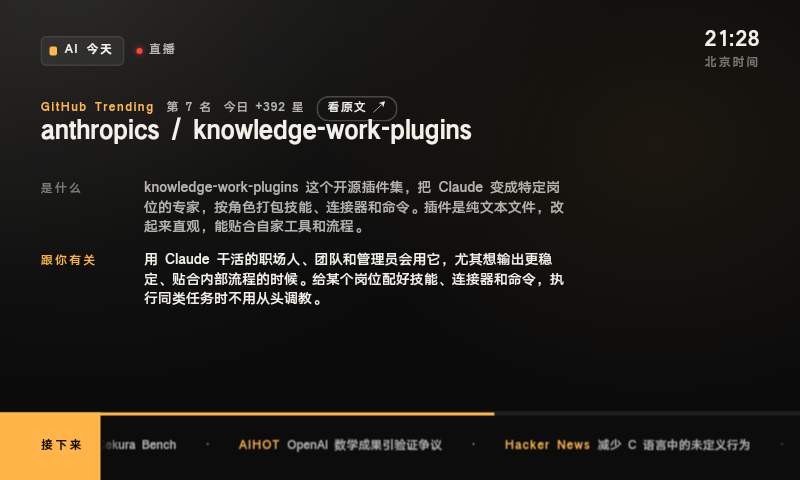
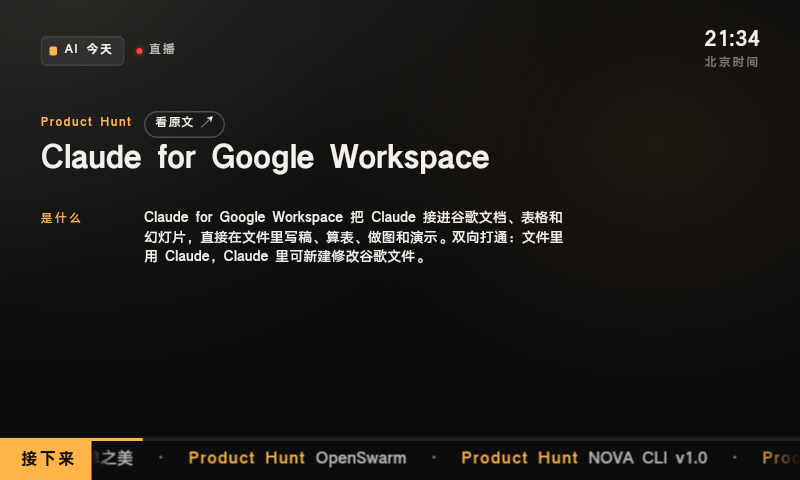
legacy: readable bottom band on small screens
On 533x320 viewports the band scaled to ~7px text. Give it a floor
(28px band, 11px text) below 800px wide.

diff --git a/legacy/legacy.css b/legacy/legacy.css
@@ -45,3 +45,15 @@ body{display:block}
 #player-status.playback-status{top:auto;right:auto;left:50%;bottom:16px;width:auto;white-space:nowrap}
 #player-retry{bottom:56px}
 #age-tag{display:none!important}
+
+/* 小屏（触屏音箱 533×320 这类）：画面按 1% 宽度缩放后底栏只有 7px 字，给一个能读的下限 */
+@media (max-width:800px){
+  .band{height:28px}
+  .band .prog{height:2px}
+  .band .tag{padding:0 10px 0 14px;font-size:11px;letter-spacing:.12em}
+  .band .track{font-size:11px}
+  .band .track span{padding:0 8px}
+  .band .track span::after{margin-left:16px}
+  .card{bottom:36px}
+  .golive{bottom:38px;font-size:11px}
+}
